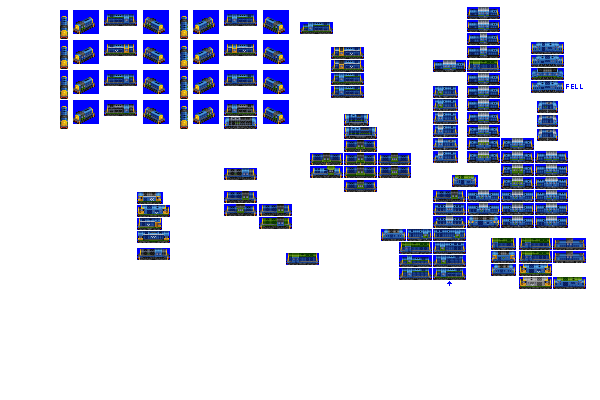
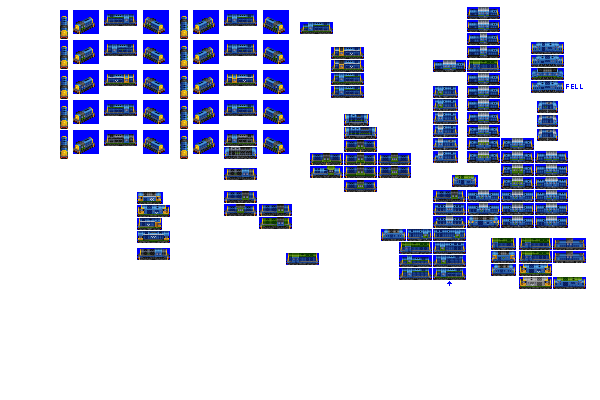
Change: further tweaks to Highlander, Smirr, Smizzle sprites

diff --git a/src/vehicles/pony/smizzle.py b/src/vehicles/pony/smizzle.py
@@ -18,7 +18,7 @@ def main(**kwargs):
         gen=4,
         intro_year_offset=-1,  # introduce earlier by design
         # note that livery names are metadata only and can repeat for different spriterows
-        liveries=["VANILLA", "RAILFREIGHT_RED_STRIPE", "INDUSTRIAL_YELLOW", "INDUSTRIAL_YELLOW"],
+        liveries=["VANILLA", "BANGER_BLUE", "RAILFREIGHT_RED_STRIPE", "INDUSTRIAL_YELLOW", "INDUSTRIAL_YELLOW"],
         sprites_complete=False,
     )
 
